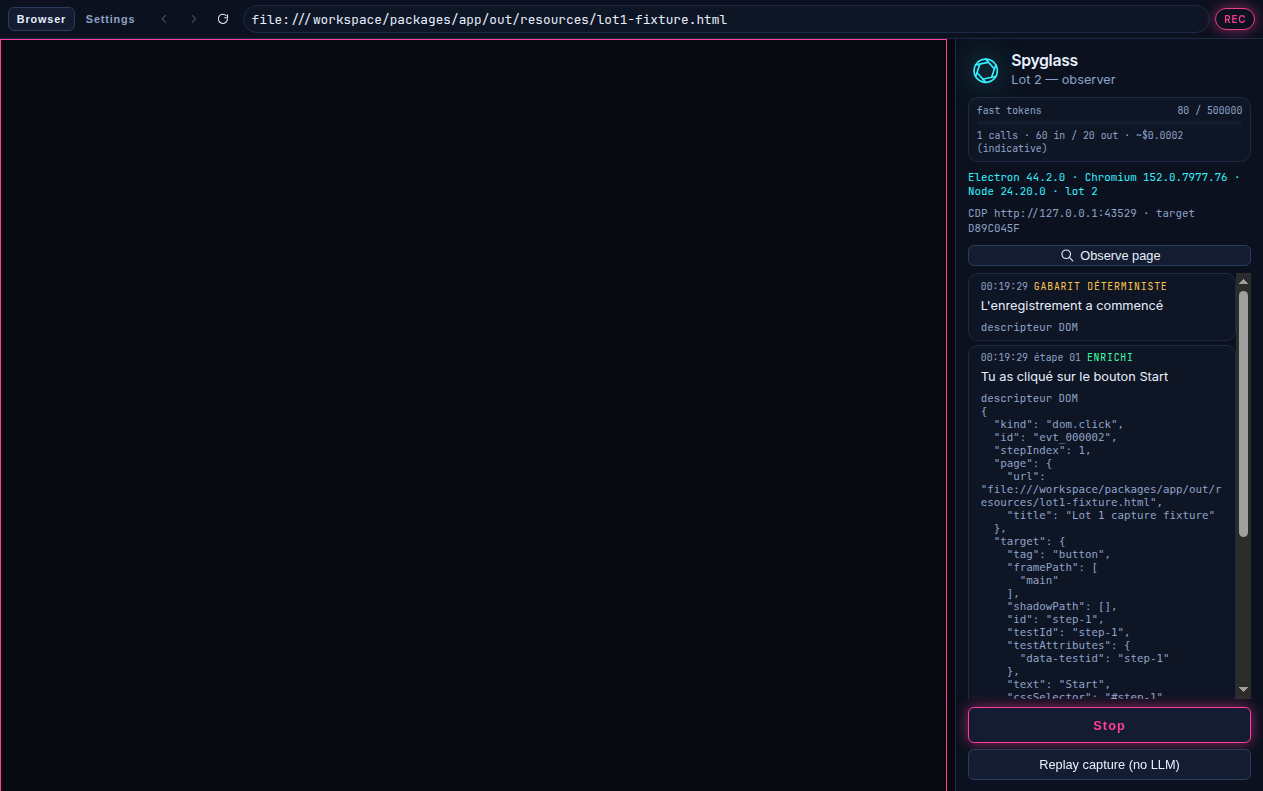
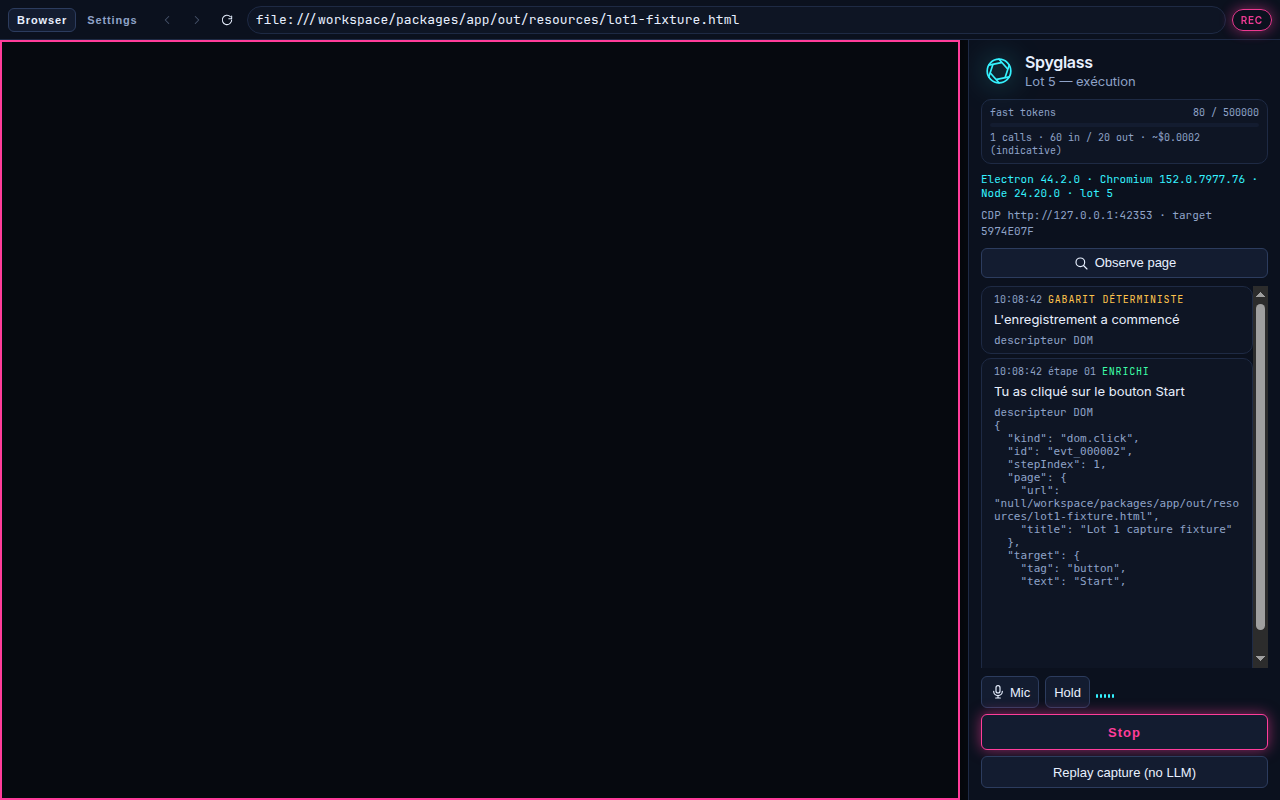
fix(lot-5): make guest isVisible scripts valid in executeJavaScript
Wrap Electron query helpers in an IIFE so verification can return a
boolean, and update the Lot 0 tagline assertion to Lot 5.

diff --git a/packages/app/src/main/electron-driver.ts b/packages/app/src/main/electron-driver.ts
@@ -1,60 +1,9 @@
 import { writeFile } from 'node:fs/promises';
 import type { PageDriver, PageSnapshot } from '@spyglass/runner';
 import type { WebContents } from 'electron';
+import { guestScript } from './electron-guest-script.ts';
 
-const QUERY_HELPER = `function spyglassQuery(selector) {
-  const hops = String(selector).split(' >> ').map((part) => part.trim()).filter(Boolean);
-  let root = document;
-  for (let i = 0; i < hops.length - 1; i += 1) {
-    const host = spyglassQueryDeep(root, hops[i]);
-    if (host == null || host.contentDocument == null) {
-      return null;
-    }
-    root = host.contentDocument;
-  }
-  return spyglassQueryDeep(root, hops[hops.length - 1] ?? selector);
-}
-function spyglassQueryDeep(root, selector) {
-  if (selector.startsWith('xpath=')) {
-    const found = root.evaluate(
-      selector.slice(6),
-      root,
-      null,
-      XPathResult.FIRST_ORDERED_NODE_TYPE,
-      null
-    ).singleNodeValue;
-    return found;
-  }
-  const role = /^role=([^\\[]+)(?:\\[name="([^"]*)"\\])?$/.exec(selector);
-  if (role) {
-    const nodes = root.querySelectorAll('*');
-    for (const node of nodes) {
-      const name = (node.getAttribute('aria-label') || node.textContent || '').trim();
-      const computed = (node.getAttribute('role') || node.tagName).toLowerCase();
-      if (computed === role[1].toLowerCase() && (!role[2] || name === role[2])) {
-        return node;
-      }
-    }
-  }
-  try {
-    const direct = root.querySelector(selector);
-    if (direct) {
-      return direct;
-    }
-  } catch {
-    // invalid CSS — try shadow pierce below
-  }
-  const walk = root.querySelectorAll('*');
-  for (const node of walk) {
-    if (node.shadowRoot) {
-      const nested = spyglassQueryDeep(node.shadowRoot, selector);
-      if (nested) {
-        return nested;
-      }
-    }
-  }
-  return null;
-}`;
+export { guestScript } from './electron-guest-script.ts';
 
 export class ElectronPageDriver implements PageDriver {
   constructor(private readonly contents: WebContents) {}
@@ -73,24 +22,24 @@ export class ElectronPageDriver implements PageDriver {
 
   async click(selector: string): Promise<void> {
     await this.eval(
-      `${QUERY_HELPER}
+      guestScript(`
       const el = spyglassQuery(${JSON.stringify(selector)});
       if (!el) { throw new Error(${JSON.stringify(`selector not found: ${selector}`)}); }
       el.click();
-      true;`
+      return true;`)
     );
   }
 
   async fill(selector: string, value: string): Promise<void> {
     await this.eval(
-      `${QUERY_HELPER}
+      guestScript(`
       const el = spyglassQuery(${JSON.stringify(selector)});
       if (!el) { throw new Error(${JSON.stringify(`selector not found: ${selector}`)}); }
       el.focus();
       el.value = ${JSON.stringify(value)};
       el.dispatchEvent(new Event('input', { bubbles: true }));
       el.dispatchEvent(new Event('change', { bubbles: true }));
-      true;`
+      return true;`)
     );
   }
 
@@ -100,22 +49,22 @@ export class ElectronPageDriver implements PageDriver {
 
   async check(selector: string, checked: boolean): Promise<void> {
     await this.eval(
-      `${QUERY_HELPER}
+      guestScript(`
       const el = spyglassQuery(${JSON.stringify(selector)});
       if (!el) { throw new Error(${JSON.stringify(`selector not found: ${selector}`)}); }
       el.checked = ${checked ? 'true' : 'false'};
       el.dispatchEvent(new Event('change', { bubbles: true }));
-      true;`
+      return true;`)
     );
   }
 
   async press(selector: string, key: string): Promise<void> {
     await this.eval(
-      `${QUERY_HELPER}
+      guestScript(`
       const el = spyglassQuery(${JSON.stringify(selector)});
       if (!el) { throw new Error(${JSON.stringify(`selector not found: ${selector}`)}); }
       el.dispatchEvent(new KeyboardEvent('keydown', { key: ${JSON.stringify(key)}, bubbles: true }));
-      true;`
+      return true;`)
     );
   }
 
@@ -137,11 +86,11 @@ export class ElectronPageDriver implements PageDriver {
   async isVisible(selector: string): Promise<boolean> {
     try {
       const result = await this.eval(
-        `${QUERY_HELPER}
+        guestScript(`
         const el = spyglassQuery(${JSON.stringify(selector)});
         if (!el) { return false; }
         const style = window.getComputedStyle(el);
-        return style.display !== 'none' && style.visibility !== 'hidden';`
+        return style.display !== 'none' && style.visibility !== 'hidden';`)
       );
       return result === true;
     } catch {
@@ -160,9 +109,9 @@ export class ElectronPageDriver implements PageDriver {
 
   async inputValue(selector: string): Promise<string> {
     const value = await this.eval(
-      `${QUERY_HELPER}
+      guestScript(`
       const el = spyglassQuery(${JSON.stringify(selector)});
-      return el && 'value' in el ? String(el.value) : '';`
+      return el && 'value' in el ? String(el.value) : '';`)
     );
     return typeof value === 'string' ? value : '';
   }

diff --git a/packages/app/src/main/electron-guest-script.ts b/packages/app/src/main/electron-guest-script.ts
@@ -1,0 +1,58 @@
+const QUERY_HELPER = `function spyglassQuery(selector) {
+  const hops = String(selector).split(' >> ').map((part) => part.trim()).filter(Boolean);
+  let root = document;
+  for (let i = 0; i < hops.length - 1; i += 1) {
+    const host = spyglassQueryDeep(root, hops[i]);
+    if (host == null || host.contentDocument == null) {
+      return null;
+    }
+    root = host.contentDocument;
+  }
+  return spyglassQueryDeep(root, hops[hops.length - 1] ?? selector);
+}
+function spyglassQueryDeep(root, selector) {
+  if (selector.startsWith('xpath=')) {
+    const found = root.evaluate(
+      selector.slice(6),
+      root,
+      null,
+      XPathResult.FIRST_ORDERED_NODE_TYPE,
+      null
+    ).singleNodeValue;
+    return found;
+  }
+  const role = /^role=([^\\[]+)(?:\\[name="([^"]*)"\\])?$/.exec(selector);
+  if (role) {
+    const nodes = root.querySelectorAll('*');
+    for (const node of nodes) {
+      const name = (node.getAttribute('aria-label') || node.textContent || '').trim();
+      const computed = (node.getAttribute('role') || node.tagName).toLowerCase();
+      if (computed === role[1].toLowerCase() && (!role[2] || name === role[2])) {
+        return node;
+      }
+    }
+  }
+  try {
+    const direct = root.querySelector(selector);
+    if (direct) {
+      return direct;
+    }
+  } catch {
+    // invalid CSS — try shadow pierce below
+  }
+  const walk = root.querySelectorAll('*');
+  for (const node of walk) {
+    if (node.shadowRoot) {
+      const nested = spyglassQueryDeep(node.shadowRoot, selector);
+      if (nested) {
+        return nested;
+      }
+    }
+  }
+  return null;
+}`;
+
+/** Wrap guest scripts so top-level `return` is valid in executeJavaScript. */
+export function guestScript(body: string): string {
+  return `(() => {\n${QUERY_HELPER}\n${body}\n})()`;
+}

diff --git a/packages/app/src/main/electron-driver.test.ts b/packages/app/src/main/electron-driver.test.ts
@@ -1,0 +1,14 @@
+import { describe, expect, it } from 'vitest';
+import { guestScript } from './electron-guest-script.ts';
+
+describe('ElectronPageDriver guest scripts', () => {
+  it('wraps query helpers so top-level return is valid (isVisible)', () => {
+    const script = guestScript(`
+      const el = spyglassQuery('#step-1');
+      if (!el) { return false; }
+      return true;
+    `);
+    expect(() => new Function(script)).not.toThrow();
+    expect(script.startsWith('(() => {')).toBe(true);
+  });
+});

diff --git a/packages/app/e2e/empty-shell.spec.ts b/packages/app/e2e/empty-shell.spec.ts
@@ -75,7 +75,7 @@ test.describe('Lot 0 two-zone shell', () => {
 
       await expect(chrome).toHaveTitle(/Spyglass/);
       await expect(chrome.locator('h1')).toHaveText('Spyglass');
-      await expect(chrome.locator('.tagline')).toContainText('Lot 4');
+      await expect(chrome.locator('.tagline')).toContainText('Lot 5');
       await expect(chrome.locator('#url')).toBeVisible();
       await expect(chrome.locator('#back')).toBeVisible();
       await expect(chrome.locator('#forward')).toBeVisible();
